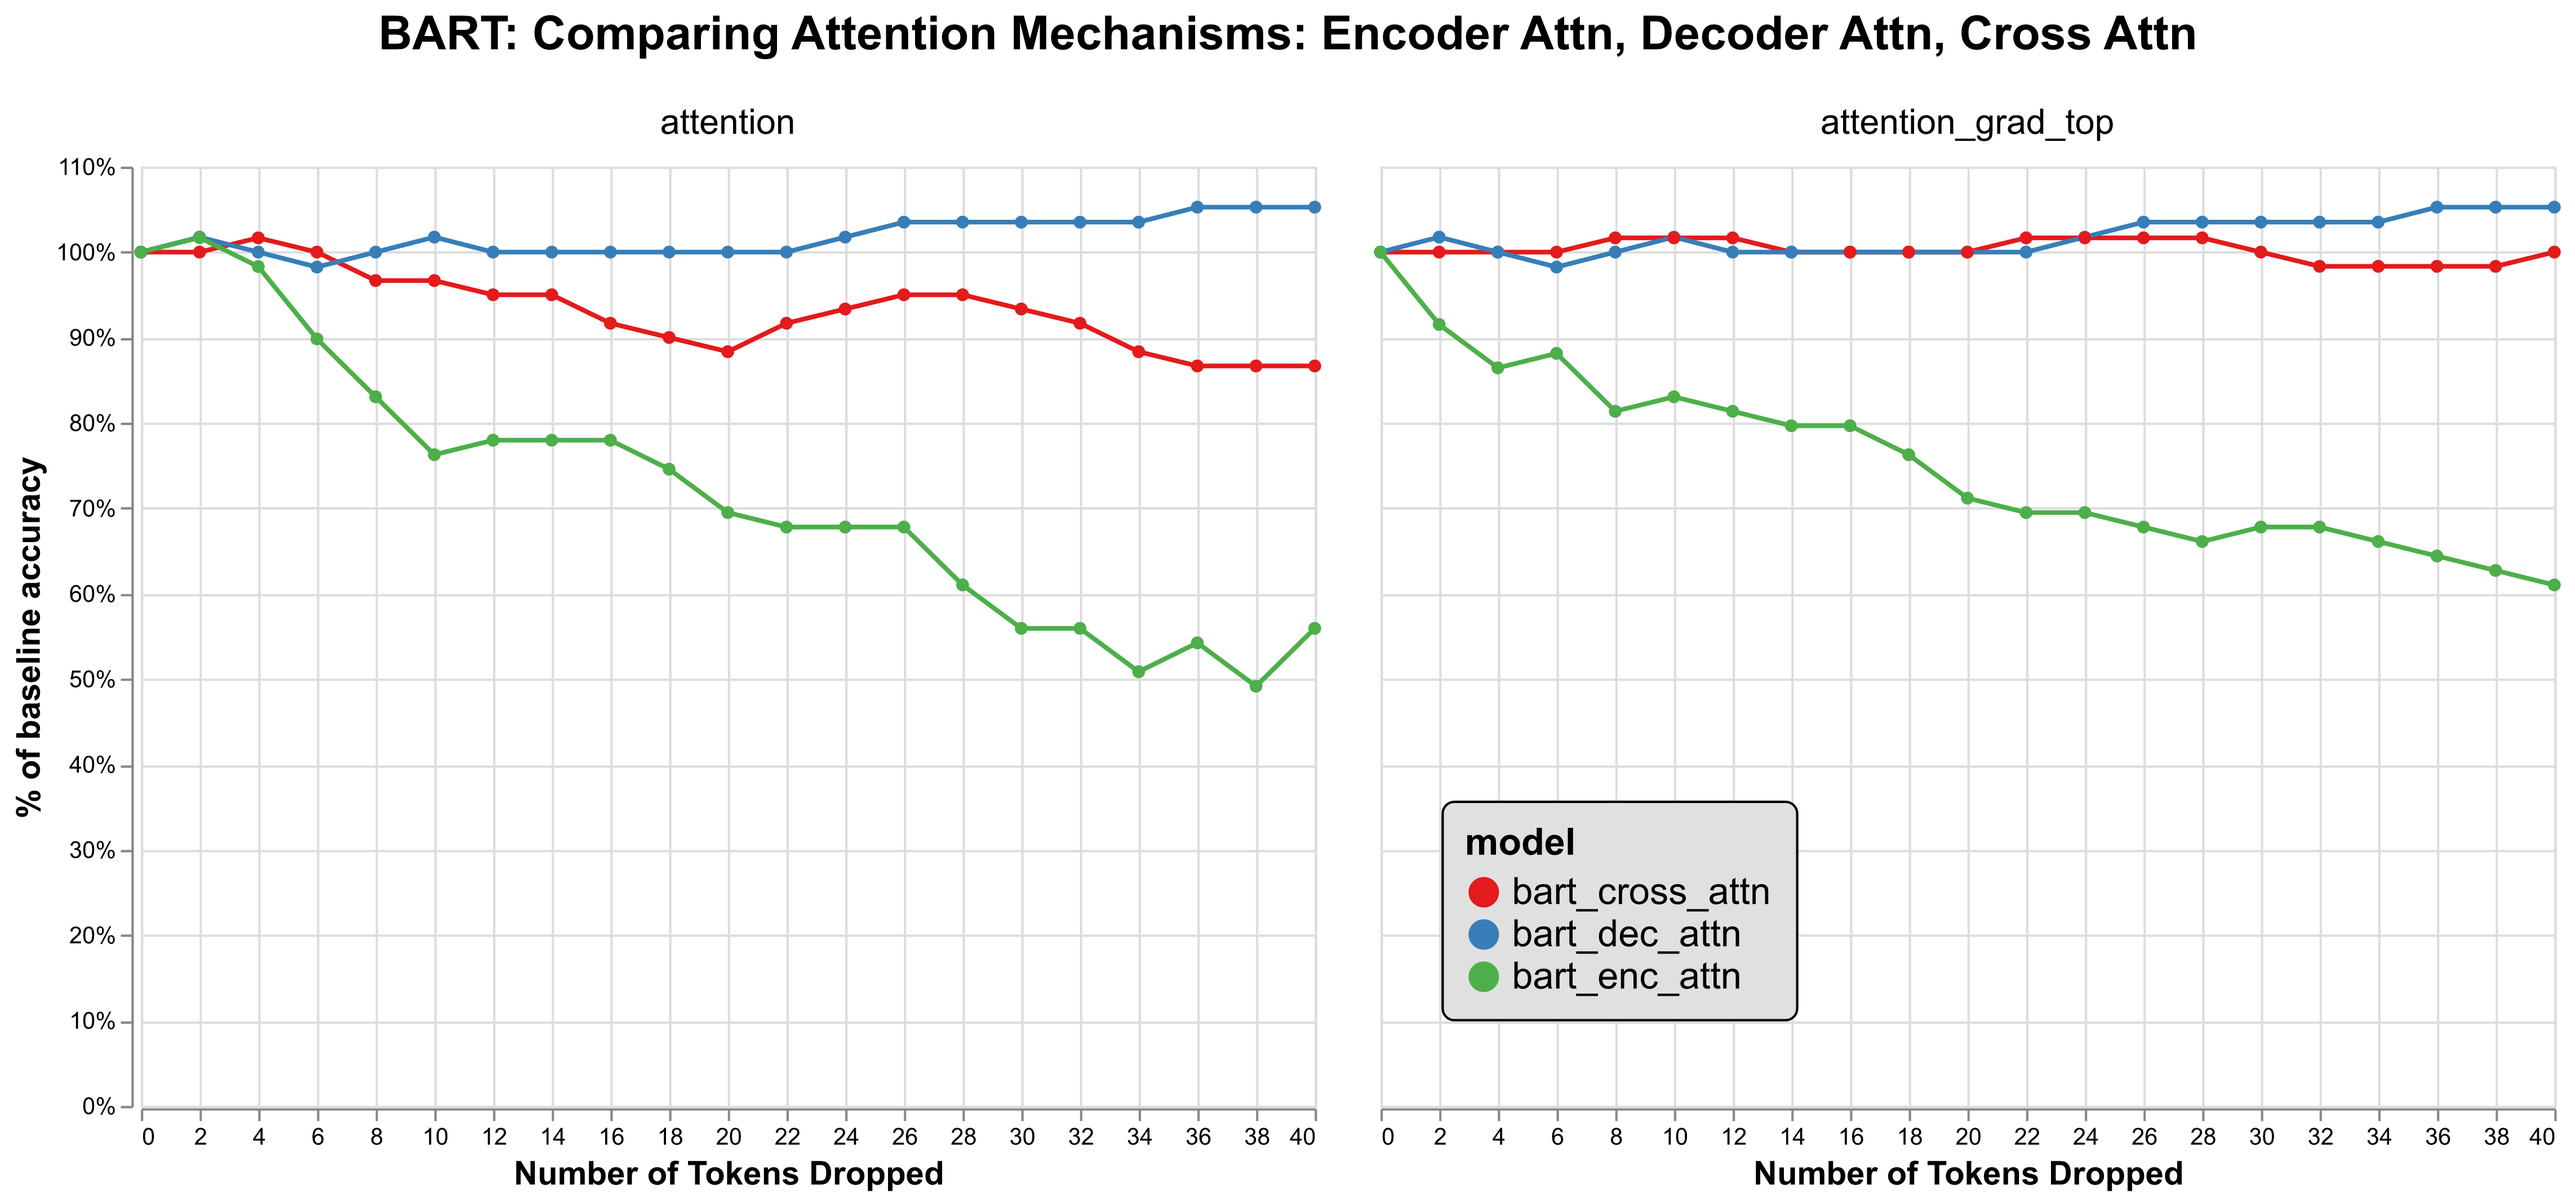
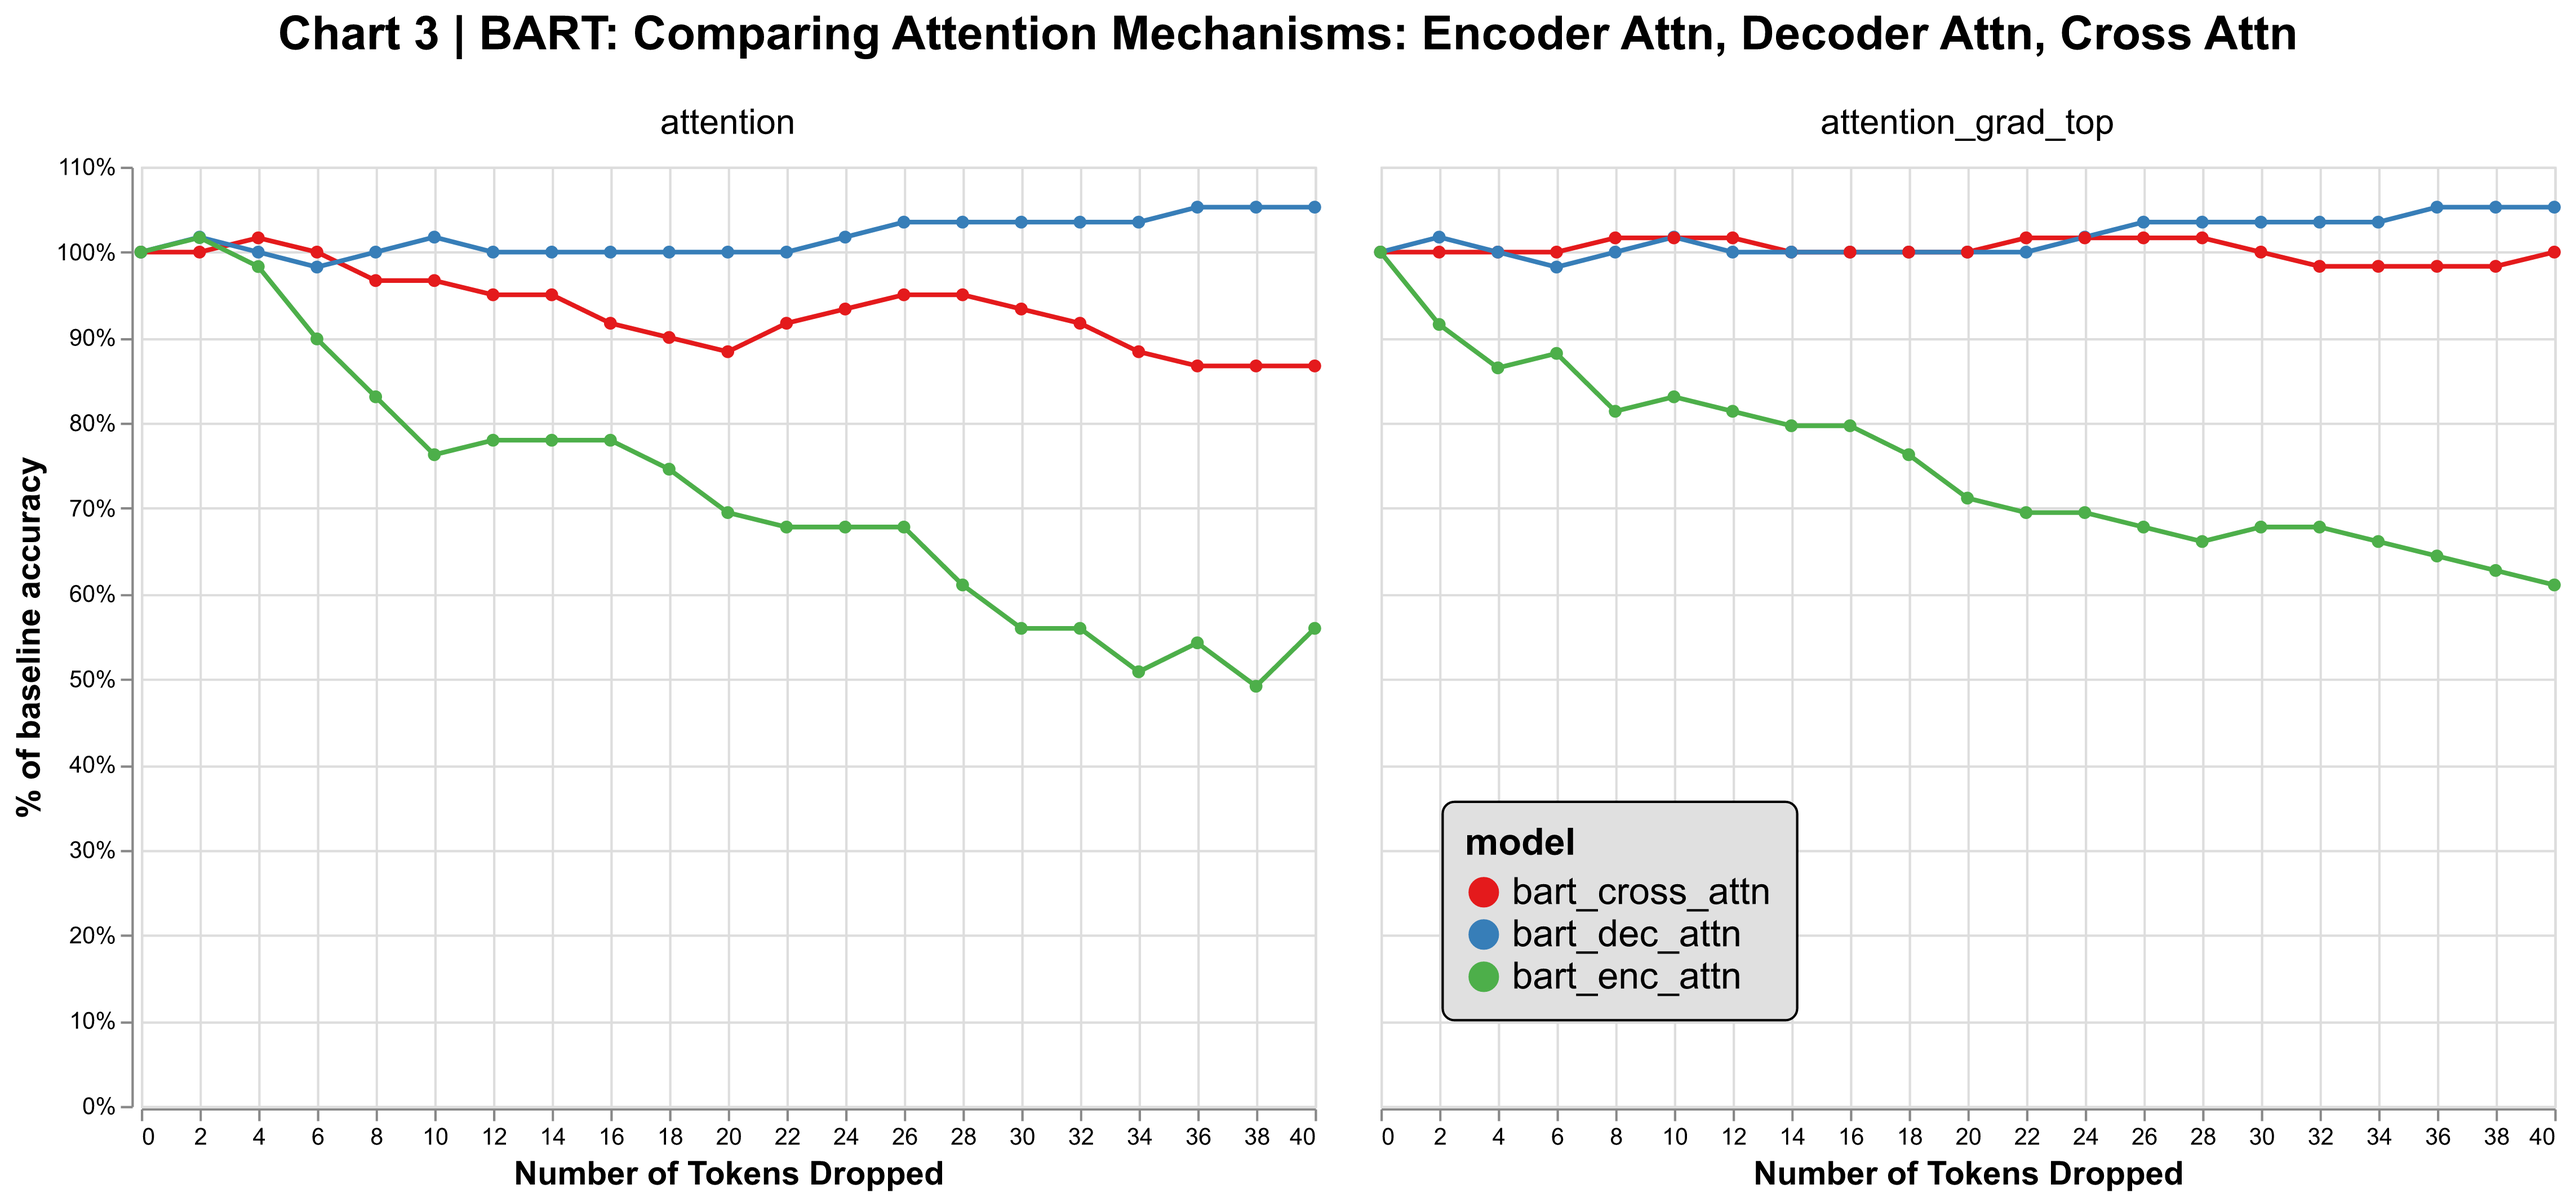
comment out attention storing lines

Changed region(s): [[0.0932, 0.0, 0.9011, 0.0619]]

diff --git a/src/extract_attention.py b/src/extract_attention.py
@@ -111,10 +111,10 @@ class AttentionAnalysis:
       predicted_label_list.append(predicted_labels.cpu())
 
       # Do a backward pass to get gradients.
-      for attention in output[self.attention_name]:
-        attention.retain_grad()
-      for attention in output[self.grad_attention_name]:
-        attention.retain_grad()
+      # for attention in output[self.attention_name]:
+      #   attention.retain_grad()
+      # for attention in output[self.grad_attention_name]:
+      #   attention.retain_grad()
       loss = self.loss_function(output.logits, labels)
       loss.backward(retain_graph=True)
 

diff --git a/src/analysis_viz.py b/src/analysis_viz.py
@@ -225,7 +225,7 @@ def plot_all_drop_strategies_for_all_models(
 
   chart = ((temp_df
     .alt_chart(
-        title=title,
+        title=f'{title_annotation} | {title}',
         height=400,
         width=500
     )
